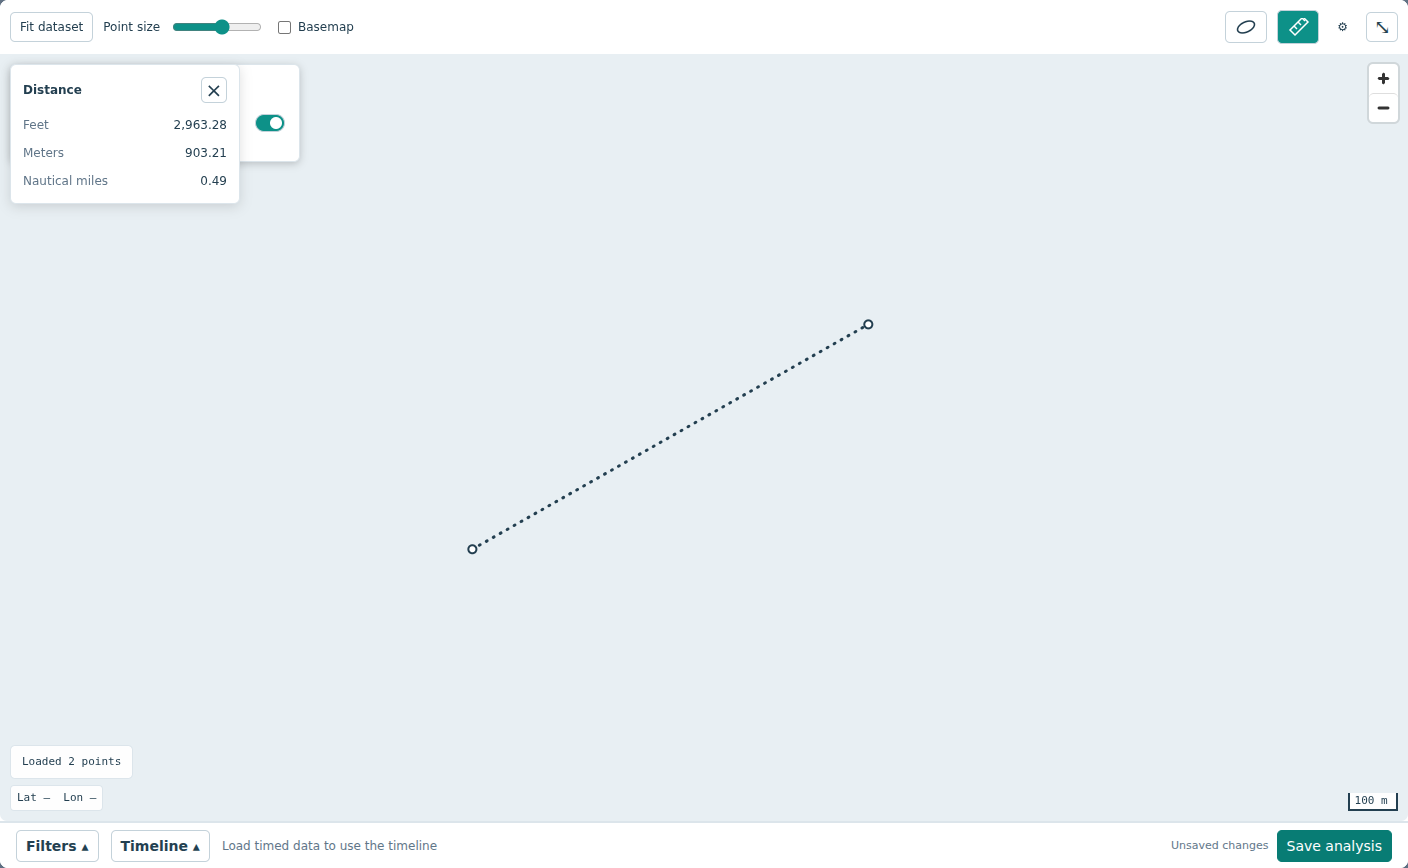
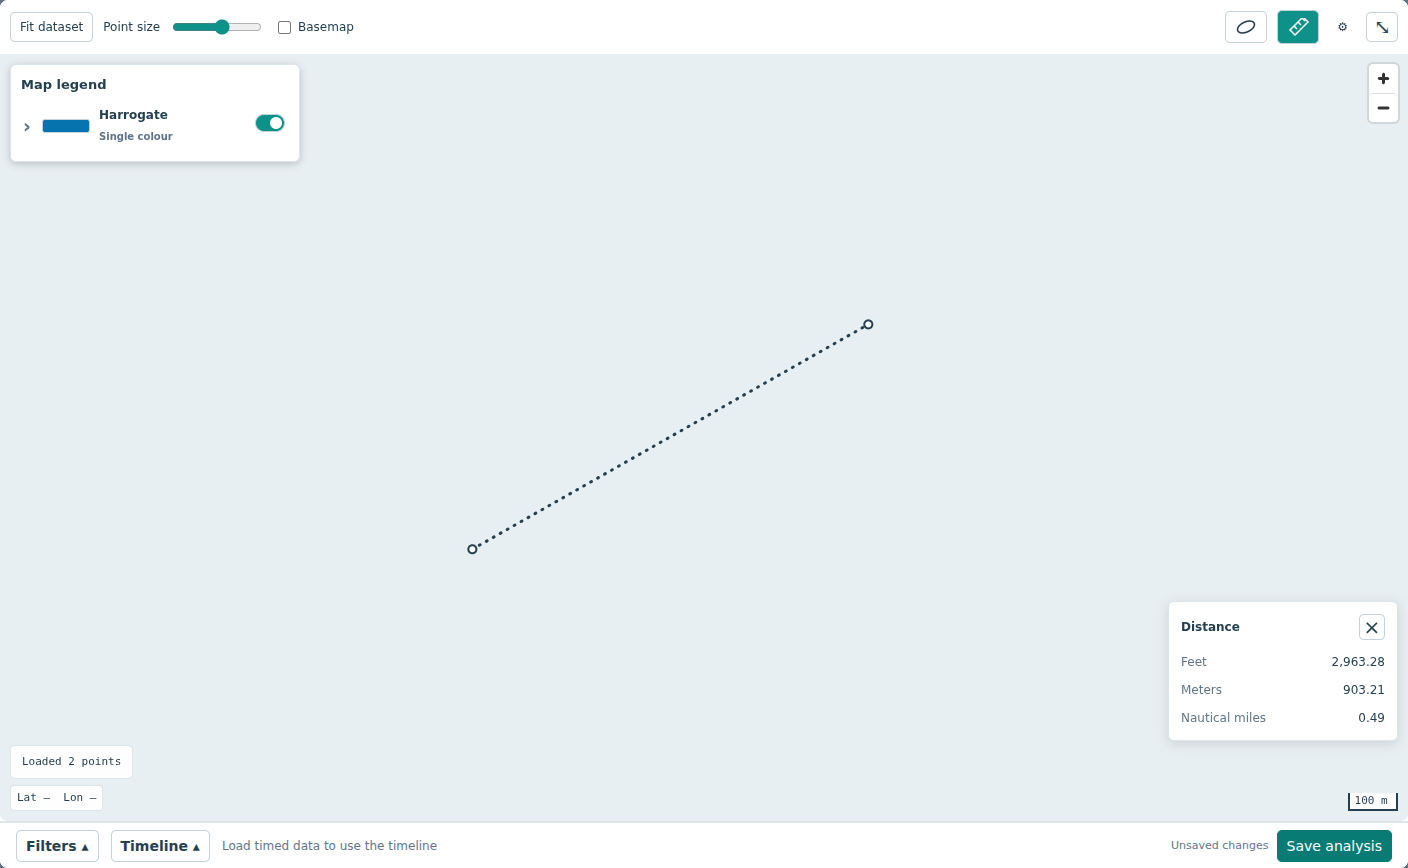
Keep measurement popup clear of the enlarged map legend

diff --git a/src/style.css b/src/style.css
@@ -1025,7 +1025,7 @@ html { scroll-padding-bottom: var(--workspace-dock-height, 48px); }
 .map-measure-line circle { fill: var(--surface); stroke: var(--text); stroke-width: 2; }
 .map-measure-help, .map-measure-dialog { position: absolute; top: 10px; left: 10px; background: var(--surface); color: var(--text); border: 1px solid var(--border); border-radius: 6px; box-shadow: 0 3px 12px #0002; }
 .map-measure-help { padding: 8px 12px; font-size: 12px; }
-.map-measure-dialog { width: 230px; max-width: calc(100% - 20px); padding: 12px; pointer-events: auto; }
+.map-measure-dialog { top: auto; left: auto; right: 10px; bottom: 80px; width: 230px; max-width: calc(100% - 20px); padding: 12px; pointer-events: auto; }
 .map-measure-heading { display: flex; align-items: center; justify-content: space-between; gap: 12px; }
 .map-measure-heading button { padding: 0; width: 26px; height: 26px; font-size: 20px; line-height: 1; }
 .map-measure-dialog dl { display: grid; grid-template-columns: auto minmax(0, 1fr); gap: 8px 12px; margin: 12px 0 0; font-size: 12px; }

diff --git a/tests/browser/map-measure.spec.ts b/tests/browser/map-measure.spec.ts
@@ -69,6 +69,8 @@ for (const deviceScaleFactor of [1, 2]) test.describe(`measure at DPR ${deviceSc
         if (deviceScaleFactor === 1) await page.locator('.map-panel').screenshot({ path: 'docs/screenshots/map-measure.png' });
         await page.locator('#enlargeMap').click();
         await expect(dialog(page)).toBeVisible(); await expect(dialog(page)).toHaveText(locked!);
+        const popupBounds = (await dialog(page).boundingBox())!, legendBounds = (await page.locator('#mapLegend').boundingBox())!;
+        expect(popupBounds.y).toBeGreaterThan(legendBounds.y + legendBounds.height);
         if (deviceScaleFactor === 1) await page.locator('.map-dialog').screenshot({ path: 'docs/screenshots/map-measure-enlarged.png' });
         await page.setViewportSize({ width: 390, height: 844 });
         await page.evaluate(() => { document.documentElement.dataset.theme = 'dark'; window.dispatchEvent(new Event('themechange')); });

diff --git a/src/map-measure.ts b/src/map-measure.ts
@@ -88,6 +88,7 @@ export class MapMeasure {
     };
 
     private render = () => {
+        if (!this.active) return;
         const end = this.end ?? this.preview;
         const a = this.start && this.map.project(this.start);
         const b = end && this.map.project(end);
